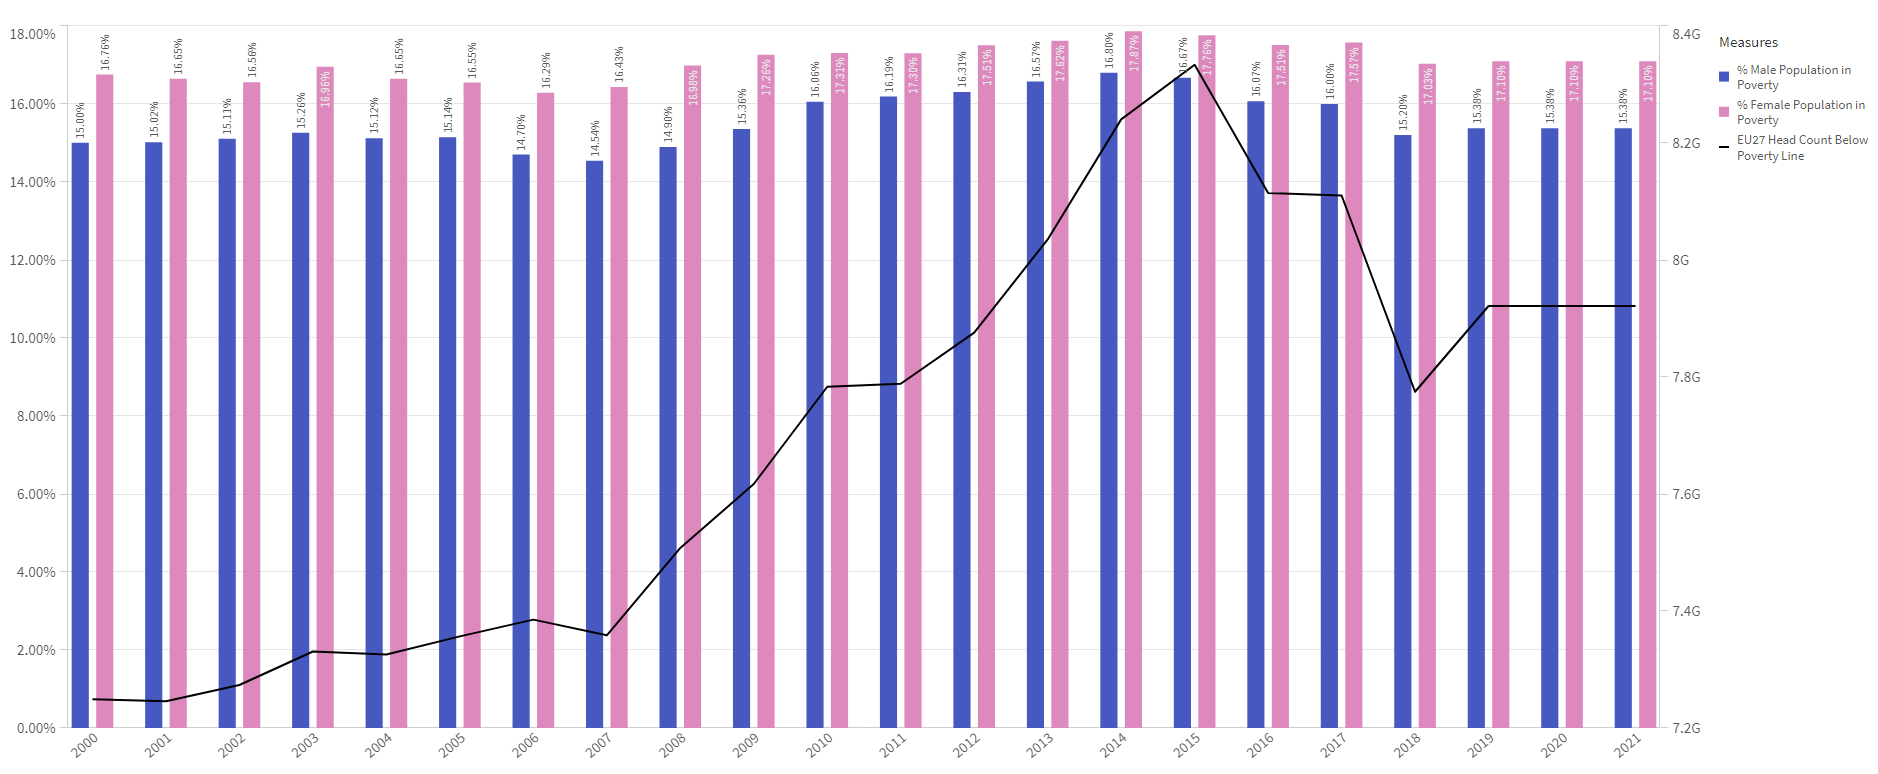
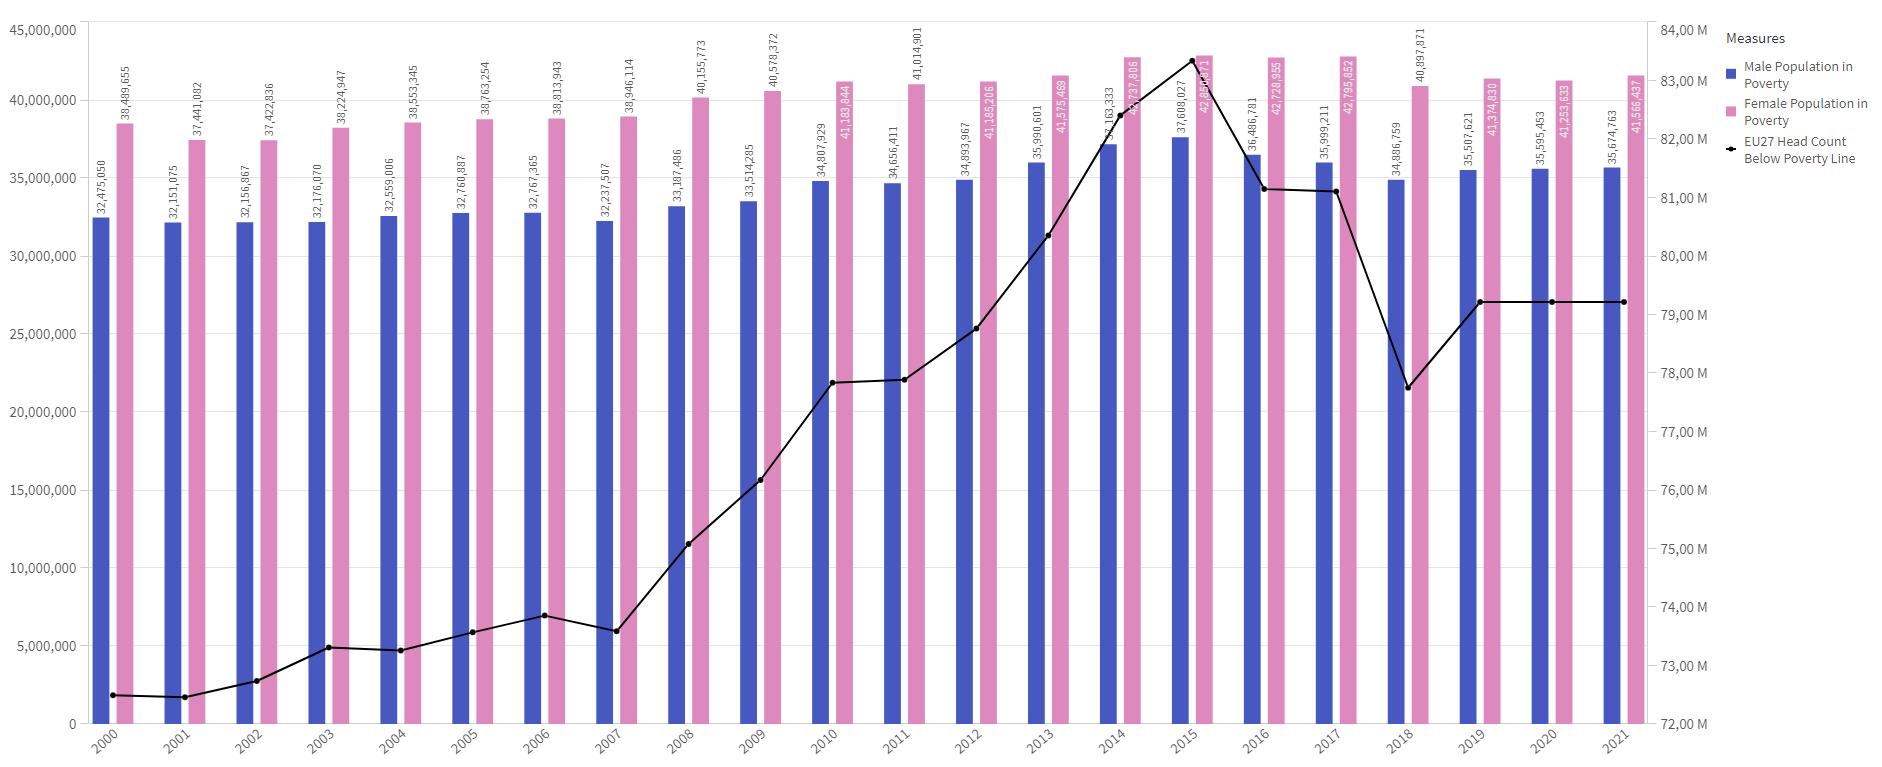
Add files via upload

diff --git a/EU27.html b/EU27.html
@@ -64,14 +64,18 @@
 							</script>
 						</div>
 						
-						<p style="font-size: small; text-align:center">Chart description:<br><br>
-						Choropleth Europe map showing the prevalence of poverty (share of population) in EU27 Member States.<br>
-						Not only this chart allows for a country by country insight but also enhances a geographical analysis indicating which regions are mostly affected by poverty.<br>
-						Countries with higher Share (%) of Population living under the Poverty line are represented with darker color.<br>
-						Hovering the countries with the mouse shows the value in each year.<br>
-						<br>
-						Clicking the play button will show the evolution along the years from 2000 until 2021.<br><br>
-						(Initially we wanted to control the year animation for both the Map and the RaceBar chart with the same Play button. Unfortunately we were not able to overtake some technical chalenges.)<br>
+						<div class="chart_desc">
+							<p style="font-weight: bold;">Chart description:</p>
+							Choropleth Europe map showing the prevalence of poverty (share of population) in EU27 Member States.<br>
+							Not only this chart allows for a country by country insight but also enhances a geographical analysis indicating which regions are mostly affected by poverty.<br>
+							Countries with higher Share (%) of Population living under the Poverty line are represented with darker color.<br>
+							Hovering the countries with the mouse shows the value in each year.<br>
+							<br>
+							Clicking the play button will show the evolution along the years from 2000 until 2021.<br><br>
+							(Initially we wanted to control the year animation for both the Map and the RaceBar chart with the same Play button. Unfortunately we were not able to overtake some technical chalenges.)<br>
+							<p>							
+						</div>
+						
 					</div>
 					<!--Div à dir. cima -->
 					<div class="grid-child purple">
@@ -84,10 +88,14 @@
 							</script>
 						</div>
 						
-						<p style="font-size: small; text-align:center">Chart description:<br><br>
-						RaceBar Chart showing the evolution of poverty prevalence (share of population) in EU27 Member States along the Years.<br>
-						The bars are sorted descending by Countries with higher prevalence .<br>
-						The Year starts automatically iterating when the page is opened, starting from 2000 until 2021.<br>
+						<div class="chart_desc">
+							<p style="font-weight: bold;">Chart description:</p>
+							RaceBar Chart showing the evolution of poverty prevalence (share of population) in EU27 Member States along the Years.<br>
+							The bars are sorted descending by Countries with higher prevalence .<br>
+							The Year starts automatically iterating when the page is opened, starting from 2000 until 2021.<br>
+							<p>							
+						</div>
+					
 					</div>	
 				<div class="grid-child purple">
 					<p style="text-align:center; font-size:22px;font-weight:bold;">Poverty on Gender and Population Head Count<br>
@@ -95,9 +103,12 @@
 					</p>
 					<img src="./BarLine_EU27.PNG" width="900" height="562"><br>
 					
-					<p style="font-size: small; text-align:center">Chart description:<br><br>
-					Combo Chart with the bars showing the prevalence of poverty between both genders and a line for Total EU27 Head count living under the Poverty line.<br>
-					Showing the evolution along the years from 2000 until 2021.<br>					
+					<div class="chart_desc">
+						<p style="font-weight: bold;">Chart description:</p>
+						Combo Chart with the bars showing the EU27 absolute Head Count of population living under the Poverty Line for both genders and a line for Total Head count under the Poverty line.<br>
+						Showing the evolution along the years from 2000 until 2021.<br>	
+						<p>													
+					</div>
 				</div>
 					<div class="grid-child purple">
 						<p style="text-align:center; font-size:22px;font-weight:bold;">Poverty over Female vs. Male Population<br>
@@ -109,22 +120,27 @@
 							</script>
 						</div>
 						
-							<p style="font-size: small; text-align:center">Chart description:<br><br>
+						<div class="chart_desc">
+							<p style="font-weight: bold;">Chart description:</p>
 							Lolipop Chart comparing Share of poverty in Female population vs Male Population.<br>
-							Cross sectional data for Year 2021 for all EU27 Member States (except Greece as there was no data available).<br />							
+							Cross sectional data for Year 2021 for all EU27 Member States (except Greece as there was no data available).<br>
+							<p>
+						</div>	
 					</div>
 				</div>
 					<div class="grid-child purple">
-					<p style="text-align:center; font-size:22px;font-weight:bold;">Contribution of each Country to the Total Nr. of people living under the Proverty Line<br><p style="font-weight:bold; font-size:18px;">Year: 2021</p>
-					<b>&#8681;</b>
-					</p>
-					<img src="./TreeMap_EU27.PNG" width="1640" height="732"><br>
-					
-					<p style="font-size: small; text-align:left">Chart description:<br><br>
-					TreeMap chart showing the contribution of each country to the total EU27 Head Count living under the poverty line.<br>
-					Cross sectional data for Year 2021.<br>				
-					
-				</div>
+						<p style="text-align:center; font-size:22px;font-weight:bold;">Contribution of each Country to the Total Nr. of people living under the Proverty Line<br><p style="font-weight:bold; font-size:18px;">Year: 2021</p>
+						<b>&#8681;</b>
+						</p>
+						<img src="./TreeMap_EU27.PNG" width="1640" height="732"><br>
+						
+						<div class="chart_desc">
+							<p style="font-weight: bold;">Chart description:</p>
+							TreeMap chart showing the contribution of each country to the total EU27 Head Count living under the poverty line.<br>
+							Cross sectional data for Year 2021.<br>	
+							<p>							
+						</div>
+					</div>
 			</div>
 			
 			

diff --git a/index.html b/index.html
@@ -64,13 +64,17 @@
 							</script>
 						</div>
 						
-						<p style="font-size: small; text-align:center">Chart description:<br><br>
-						Choropleth Worl map showing the prevalence of poverty (share of population) in countries and regions.<br>
-						Not only this chart allows for a country by country insight but also enhances a geographical analysis indicating which regions/continents are mostly affected by poverty.<br>
-						Countries with higher Share (%) of Population living under the Poverty line are represented with darker color.<br>
-						Hovering the countries with the mouse shows the value in each year.<br>
-						<br>
-						Clicking the play button will show the evolution along the years from 2000 until 2021.<br><br>
+						<div class="chart_desc">
+							<p style="font-weight: bold;">Chart description:</p>
+							Choropleth Worl map showing the prevalence of poverty (share of population) in countries and regions.<br>
+							Not only this chart allows for a country by country insight but also enhances a geographical analysis indicating which regions/continents are mostly affected by poverty.<br>
+							Countries with higher Share (%) of Population living under the Poverty line are represented with darker color.<br>
+							Hovering the countries with the mouse shows the value in each year.<br>
+							<br>
+							Clicking the play button will show the evolution along the years from 2000 until 2021.<br><br>
+							<p>
+						</div>
+						
 					</div>
 					<!--Div à dir. cima -->
 					<div class="grid-child purple">
@@ -82,9 +86,14 @@
 								LoadData("./data/Load_LineChart_World.csv", "LineChart", "#LineChart_div");
 							</script>
 						</div>
-						<p style="font-size: small; text-align:center">Chart description:<br><br>
-						Line chart showing the Trend (growth or decline) of each continent's Average % Population living under Poverty Line.<br>
-						Hovering with the mouse the lines/dots shows the value in each year.<br>
+						
+						<div class="chart_desc">
+							<p style="font-weight: bold;">Chart description:</p>
+							Line chart showing the Trend (growth or decline) of each continent's Average % Population living under Poverty Line.<br>
+							Hovering with the mouse the lines/dots shows the value in each year.<br>
+							<p>
+						</div>	
+						
 					</div>	
 					
 				</div>
@@ -95,10 +104,15 @@
 					</p>
 					<img src="./MekkoChart_World.PNG" width="1640" height="732"><br>
 				</div>
-				<p style="font-size: small; text-align:left">Chart description:<br><br>
-				Mekko chart showing the contribution of each country and continent to the total Head Count living under the poverty line.<br>
-				Cross sectional data for Year 2021.<br><br>
-				(Initially we wanted to plot a Sunburst Chart but technical dificulties forced us to choose a Mekko chart which represents the same information with a different visual.)<br>
+				
+				<div class="chart_desc">
+					<p style="font-weight: bold;">Chart description:</p>
+					Mekko chart showing the contribution of each country and continent to the total Head Count living under the poverty line.<br>
+					Cross sectional data for Year 2021.<br><br>
+					(Initially we wanted to plot a Sunburst Chart but technical dificulties forced us to choose a Mekko chart which represents the same information with a different visual.)<br>
+					<p>
+				</div>
+				
 			</div>
 				
 			<!----------------------------------------------------------------->
